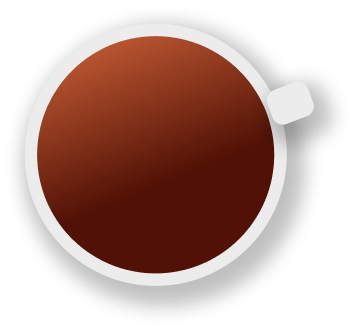
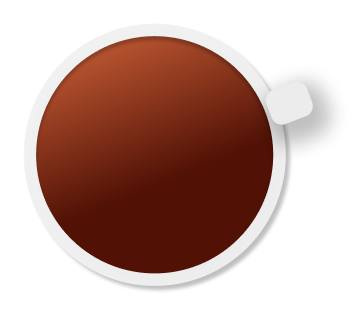
animationt tasse

Changed region(s): [[0.0312, 0.0581, 0.9037, 0.929], [0.1246, 0.2903, 0.1558, 0.3484], [0.6544, 0.2032, 0.6856, 0.2323]]

diff --git a/build/tailwind.css b/build/tailwind.css
@@ -506,12 +506,20 @@ Ensure the default browser behavior of the `hidden` attribute.
   margin-right: 0.5rem;
 }
 
-.mr-6 {
-  margin-right: 1.5rem;
-}
-
 .mr-3 {
   margin-right: 0.75rem;
+}
+
+.mb-4 {
+  margin-bottom: 1rem;
+}
+
+.mb-6 {
+  margin-bottom: 1.5rem;
+}
+
+.mb-0 {
+  margin-bottom: 0px;
 }
 
 .mb-2 {
@@ -572,6 +580,14 @@ Ensure the default browser behavior of the `hidden` attribute.
 
 .w-8 {
   width: 2rem;
+}
+
+.w-64 {
+  width: 16rem;
+}
+
+.w-44 {
+  width: 11rem;
 }
 
 .w-2\/4 {
@@ -703,10 +719,6 @@ Ensure the default browser behavior of the `hidden` attribute.
   padding-bottom: 0.25rem;
 }
 
-.pl-2 {
-  padding-left: 0.5rem;
-}
-
 .pt-6 {
   padding-top: 1.5rem;
 }
@@ -721,6 +733,10 @@ Ensure the default browser behavior of the `hidden` attribute.
 
 .pb-5 {
   padding-bottom: 1.25rem;
+}
+
+.pl-2 {
+  padding-left: 0.5rem;
 }
 
 .pt-4 {
@@ -761,6 +777,16 @@ Ensure the default browser behavior of the `hidden` attribute.
 .text-xl {
   font-size: 1.25rem;
   line-height: 1.75rem;
+}
+
+.text-3xl {
+  font-size: 1.875rem;
+  line-height: 2.25rem;
+}
+
+.text-5xl {
+  font-size: 3rem;
+  line-height: 1;
 }
 
 .text-xs {
@@ -874,6 +900,43 @@ input[type=submit]{
   padding: 0;
 }
 
+/* ---animation lettres fumées */
+
+/* #lettre{
+  display: inline-block;
+  text-shadow: 0 0 0 whitesmoke;
+  animation: smoky 15s 13s both;
+}
+
+@keyframes smoky {
+  60% {
+    text-shadow: 0 0 40px whitesmoke;
+  }
+  to {
+    transform:
+      translate3d(15rem,-8rem,0)
+      rotate(-40deg)
+      skewX(70deg)
+      scale(1.5);
+    text-shadow: 0 0 20px whitesmoke;
+    opacity: 0;
+  }
+}
+
+@keyframes smoky-mirror {
+  60% {
+    text-shadow: 0 0 40px whitesmoke; }
+  to {
+    transform:
+      translate3d(18rem,-8rem,0)
+      rotate(-40deg) 
+      skewX(-70deg)
+      scale(2);
+     text-shadow: 0 0 20px whitesmoke;
+    opacity: 0;
+  }
+} */
+
 .hover\:border-amber-900:hover {
   --tw-border-opacity: 1;
   border-color: rgb(120 53 15 / var(--tw-border-opacity));
@@ -964,8 +1027,26 @@ input[type=submit]{
     display: flex;
   }
 
+  .md\:w-5\/6 {
+    width: 83.333333%;
+  }
+
   .md\:w-3\/4 {
     width: 75%;
+  }
+
+  .md\:flex-row {
+    flex-direction: row;
+  }
+
+  .md\:text-3xl {
+    font-size: 1.875rem;
+    line-height: 2.25rem;
+  }
+
+  .md\:text-lg {
+    font-size: 1.125rem;
+    line-height: 1.75rem;
   }
 }
 
@@ -980,6 +1061,14 @@ input[type=submit]{
 
   .lg\:w-auto {
     width: auto;
+  }
+
+  .lg\:w-96 {
+    width: 24rem;
+  }
+
+  .lg\:w-64 {
+    width: 16rem;
   }
 
   .lg\:w-1\/2 {
@@ -1073,3 +1162,4 @@ input[type=submit]{
   }
 }
 
+  

diff --git a/js/script.js b/js/script.js
@@ -36,3 +36,24 @@ $(document).ready(function(){
         }
     });
 });
+window.addEventListener('scroll', () =>{
+    if(window.scrollY > 1850){
+        var tl = gsap.timeline({repeat: 0, repeatDelay: 1});
+
+        tl
+          .addLabel("soucoupeAndtasse")
+          //start both of these animations at the same time, at the "greyAndPink" label.
+          .to("#soucoupe", {duration: 1, x: 100 }, "soucoupeAndtasse") 
+          .to("#tasse", {duration: 1, x: -110, rotation: 720}, "soucoupeAndtasse");
+        
+          if(document.querySelector("body").clientWidth > "1023" ){
+            gsap.to("#soucoupe", {duration: 1, x: 150 }, "soucoupeAndtasse"); 
+            gsap.to("#tasse", {duration: 1, x: -160, rotation: 720}, "soucoupeAndtasse"); 
+        
+          }   
+    }
+
+} )
+
+
+

diff --git a/css/tailwind.css b/css/tailwind.css
@@ -60,4 +60,41 @@ input[type=submit]{
     background-color: #2B0B05;
     padding: 0;
 }
+/* ---animation lettres fumées */
 
+/* #lettre{
+  display: inline-block;
+  text-shadow: 0 0 0 whitesmoke;
+  animation: smoky 15s 13s both;
+}
+
+@keyframes smoky {
+  60% {
+    text-shadow: 0 0 40px whitesmoke;
+  }
+  to {
+    transform:
+      translate3d(15rem,-8rem,0)
+      rotate(-40deg)
+      skewX(70deg)
+      scale(1.5);
+    text-shadow: 0 0 20px whitesmoke;
+    opacity: 0;
+  }
+}
+
+@keyframes smoky-mirror {
+  60% {
+    text-shadow: 0 0 40px whitesmoke; }
+  to {
+    transform:
+      translate3d(18rem,-8rem,0)
+      rotate(-40deg) 
+      skewX(-70deg)
+      scale(2);
+     text-shadow: 0 0 20px whitesmoke;
+    opacity: 0;
+  }
+} */
+
+  

diff --git a/index.php b/index.php
@@ -24,13 +24,14 @@ try{
     <link rel="stylesheet" href="https://cdnjs.cloudflare.com/ajax/libs/font-awesome/6.0.0/css/all.min.css" />
     <link rel="stylesheet" href="https://cdn.jsdelivr.net/npm/tw-elements/dist/css/index.min.css" />
     <script src="https://cdn.tailwindcss.com"></script>
+    <script src="https://cdnjs.cloudflare.com/ajax/libs/gsap/3.10.0/gsap.min.js"></script>
     <script src="https://kit.fontawesome.com/f5e209f987.js" crossorigin="anonymous"></script>
     <link rel="stylesheet" href="owlcarousel/owl.carousel.min.css">
     <link rel="stylesheet" href="owlcarousel/owl.theme.default.min.css">
 </head>
 
 <body>
-    <header class="bg-header  flex-col justify-center h-screen items-center sm:h-5/6 xl:h-screen ">
+    <header class="bg-header  flex-col justify-center h-screen items-center sm:h-5/6 xl:h-screen">
         <!-- background img/video -->
         <section class="hero-wrapper -z-50 w-screen sm:bg-hidden h-screen  fixed">
             <div class="backgr img  h-full sm:hidden"></div>
@@ -42,9 +43,13 @@ try{
 
         <!-- barre nav -->
         <nav id="navbar" class="flex items-center justify-between flex-wrap bg-hidden p-6 fixed w-full z-10 top-0">
-            <div class="flex items-center flex-shrink-0 text-white mr-6">
+            <div class="flex items-center flex-shrink-0 text-white ">
                 <a class="text-white no-underline hover:text-white hover:no-underline" href="#">
-                    <span class=" cinzel text-2xl pl-2 sm:text-4xl xl:text-6xl"><i class="em em-grinning"></i>Shuffle café</span>
+                    <p class=" cinzel text-2xl  sm:text-4xl xl:text-6xl">
+                        
+                    <!-- <i class="em em-grinning"> -->
+
+                        </i>Shuffle café</p>
                 </a>
             </div>
 
@@ -64,7 +69,7 @@ try{
                     <!-- <li class="mr-3">
                   <a class="inline-block py-2 px-4 text-white no-underline" href="#"></a>
                 </li> -->
-                    <li class="mr-3">
+                    <li class="">
                         <a class="inline-block lg:text-white text-gray-600 no-underline hover:text-gray-200 hover:text-underline py-2 px-4"
                             href="#propos">À PROPOS</a>
                     </li>
@@ -117,9 +122,9 @@ try{
         items-center
         ">
             <div class=" flex flex-col p-8 justify-center items-center">
-                <div class="text-2xl xl:text-5xl ">
-                    <p class="text-amber-900 text-2xl lg:text-5xl p-4">À propos</p>
-                    <p class="text-2xl lg:text-5xl font-bold p-6">The Shuffle</p>
+                <div class="text-2xl xl:text-5xl flex flex-col justify-center items-center">
+                    <p class="text-amber-900 text-2xl lg:text-5xl mb-4">À propos</p>
+                    <p class="text-2xl lg:text-5xl font-bold mb-4">The Shuffle</p>
                 </div>
                 
                 <div>
@@ -176,16 +181,23 @@ try{
         </section>
 
         <!-- Anecdotes -->
-        <section id="anecdotes" class=" flex w-full p-10 text-lg text-white text-justify justify-center">
-            <div class="flex items-center ">
-                <img class=""src="./assets/images/soucoupe.png" alt="cafe">  
+        <section id="anecdotes" class="w-full  text-lg text-white text-justify flex flex-col justify-center items-center md:flex-row ">
+            
+             <div id="anim" class="flex justify-center items-center ">
+                <img id ="soucoupe" class="w-64 lg:w-96"src="./assets/images/soucoupe.png" alt="soucoupe de tasse animée"> 
+                <img id ="tasse" class="w-44 lg:w-64 "src="./assets/images/tasse.png" alt="tasse avec cafee animée"> 
+               
             </div>
-            <div class="w-1/2">
-                <h2 class="cinzel text-2xl text-justify">Le saviez-vous ?</h2>
-                <p>Le café est la deuxième marchandise la plus échangée dans le monde derrière le pétrole.</p>
-                <p>Le café a un impact positif sur la mémoire à court terme, psychotechnique ainsi que sur le QI. Des études scientifiques ont mis en évidence une corrélation entre ces effets positifs et la quantité consommée de café.</p>
-                <p>Le café le plus cher du monde est produit à partir de baies de café préalablement digérées par des éléphants et récupérées dans leurs excréments. Ce café très prisé coûte aux alentours de 1 000 euros le kilo.</p>
-                <p>Le Brésil est le principal pays producteur du monde, il représente 40 % de la production mondiale de café. Au cours des trois dernières années, le pays a produit chaque année entre 45 et 50 millions de sacs de 60 kg de café.</p>
+            
+            <div class=" md:w-5/6 p-10 flex flex-col justify-center items-center">
+                <h2 class="cinzel text-2xl md:text-3xl lg:text-5xl text-justify mb-6" >Le saviez-vous ?</h2>
+                 <p id = "lettre"class="tx cinzel text-3xl font-bold lg: text-5xl"><span>C</span><span>O</span><span>F</span><span>F</span><span>E</span><span>E</span></p> 
+                    <div class=" md:text-lg lg:text-2xl">
+                        <p>Le café est la deuxième marchandise la plus échangée dans le monde derrière le pétrole.</p>
+                        <p>Le café a un impact positif sur la mémoire à court terme, psychotechnique ainsi que sur le QI. Des études scientifiques ont mis en évidence une corrélation entre ces effets positifs et la quantité consommée de café.</p>
+                        <p>Le café le plus cher du monde est produit à partir de baies de café préalablement digérées par des éléphants et récupérées dans leurs excréments. Ce café très prisé coûte aux alentours de 1 000 euros le kilo.</p>
+                        <p>Le Brésil est le principal pays producteur du monde, il représente 40 % de la production mondiale de café. Au cours des trois dernières années, le pays a produit chaque année entre 45 et 50 millions de sacs de 60 kg de café.</p>
+                    </div>
             </div>
         </section>
 
@@ -239,7 +251,7 @@ try{
 
     <!-- Footer -->
     <footer>
-      <section class="footer w-screen h-full flex flex-col justify-between px-10 py-7 text-white text-lg sm:flex-wrap sm:flex-row">
+      <section class="footer w-screen h-full flex flex-col justify-between px-10 py-7 text-white text-lg sm:flex-wrap sm:flex-row  mb-0 ">
         <section>
             <div class="flex items-center py-1">
                 <i class="fa-brands fa-github pr-2 text-2xl"></i>
